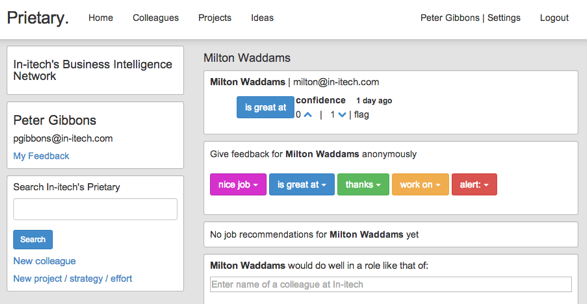
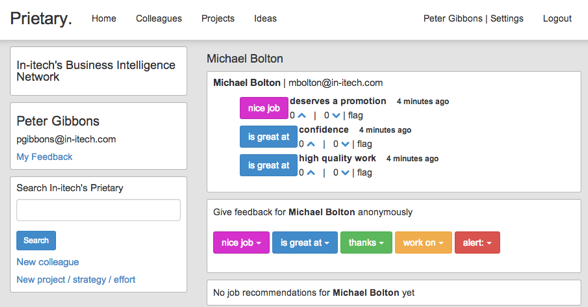
improved front image and in-itech feedbacks

diff --git a/db/seedfeedbacks.rb b/db/seedfeedbacks.rb
@@ -33,12 +33,24 @@ def seedfeedbacks
 		["tcarawell@example.com", Attribute.find_by(attribute_name: "deserves a promotion"), User.find_by(name: "Phil Garber") ],
 		["tcarawell@example.com", Attribute.find_by(attribute_name: "closing the deal"), User.find_by(name: "Beth Hillman") ],
 
-		["milton@in-itech.com", Attribute.find_by(attribute_name: "difficult to work for"), User.find_by(name: "Bill Lumbergh") ],
+		["milton@in-itech.com", Attribute.find_by(attribute_name: "confidence"), User.find_by(name: "Bill Lumbergh") ],
+		["milton@in-itech.com", Attribute.find_by(attribute_name: "poor management"), User.find_by(name: "Bill Lumbergh") ],
+		["milton@in-itech.com", Attribute.find_by(attribute_name: "building rapport"), User.find_by(name: "Bill Lumbergh") ],
 		["milton@in-itech.com", Attribute.find_by(attribute_name: "wrong fit for the company"), User.find_by(name: "Peter Gibbons") ],
+		["milton@in-itech.com", Attribute.find_by(attribute_name: "accuracy"), User.find_by(name: "Peter Gibbons") ],
+		["milton@in-itech.com", Attribute.find_by(attribute_name: "work ethic"), User.find_by(name: "Peter Gibbons") ],
+		["milton@in-itech.com", Attribute.find_by(attribute_name: "staying on task"), User.find_by(name: "Peter Gibbons") ],
+		["milton@in-itech.com", Attribute.find_by(attribute_name: "deserves a promotion"), User.find_by(name: "Peter Gibbons") ],
 		["milton@in-itech.com", Attribute.find_by(attribute_name: "getting things done"), User.find_by(name: "Samir Nagheenanajar") ],
-		["milton@in-itech.com", Attribute.find_by(attribute_name: "getting the sale"), User.find_by(name: "Michael Bolton") ],
-		["milton@in-itech.com", Attribute.find_by(attribute_name: "working independently"), User.find_by(name: "Bill Lumbergh") ],
-		["pgibbons@in-itech.com", Attribute.find_by(attribute_name: "confidence"), User.find_by(name: "Milton Waddams") ]		
+		["milton@in-itech.com", Attribute.find_by(attribute_name: "helping the team"), User.find_by(name: "Samir Nagheenanajar") ],
+		["milton@in-itech.com", Attribute.find_by(attribute_name: "attitude"), User.find_by(name: "Samir Nagheenanajar") ],
+		["milton@in-itech.com", Attribute.find_by(attribute_name: "working independently"), User.find_by(name: "Samir Nagheenanajar") ],
+		["milton@in-itech.com", Attribute.find_by(attribute_name: "confidence"), User.find_by(name: "Michael Bolton") ],
+		["milton@in-itech.com", Attribute.find_by(attribute_name: "high quality work"), User.find_by(name: "Michael Bolton") ],
+		["milton@in-itech.com", Attribute.find_by(attribute_name: "deserves a promotion"), User.find_by(name: "Michael Bolton") ],
+		["pgibbons@in-itech.com", Attribute.find_by(attribute_name: "working independently"), User.find_by(name: "Milton Waddams") ],
+		["pgibbons@in-itech.com", Attribute.find_by(attribute_name: "high quality work"), User.find_by(name: "Milton Waddams") ],
+		["pgibbons@in-itech.com", Attribute.find_by(attribute_name: "meeting the deadline"), User.find_by(name: "Milton Waddams") ]				
 	    ]
 
 	feedback_list.each do | from_email, attrib_obj, to_user_obj | 

diff --git a/db/seedpfeedbacks.rb b/db/seedpfeedbacks.rb
@@ -26,9 +26,18 @@ def seedpfeedbacks
 		["tcarawell@example.com", Pattribute.find_by(name: "needs to be rescoped"), Project.find_by(name: "Refresh website") ],
 		["tcarawell@example.com", Pattribute.find_by(name: "needs to show market need"), Project.find_by(name: "Refresh website") ],
 
-		["milton@in-itech.com", Pattribute.find_by(name: "needs to be rescoped"), Project.find_by(name: "Think: Is this good for the company?") ],
-		["milton@in-itech.com", Pattribute.find_by(name: "needs a different team"), Project.find_by(name: "Office Supply cost reduction") ],
-		["milton@in-itech.com", Pattribute.find_by(name: "needs to show market need"), Project.find_by(name: "New printer") ]
+		["milton@in-itech.com", Pattribute.find_by(name: "is critical for our customers"), Project.find_by(name: "Think: Is this good for the company?") ],
+		["milton@in-itech.com", Pattribute.find_by(name: "needs to be de-priorized"), Project.find_by(name: "Think: Is this good for the company?") ],
+		["milton@in-itech.com", Pattribute.find_by(name: "needs more time"), Project.find_by(name: "Think: Is this good for the company?") ],
+		["milton@in-itech.com", Pattribute.find_by(name: "needs to pivot"), Project.find_by(name: "Office Supply cost reduction") ],
+		["milton@in-itech.com", Pattribute.find_by(name: "is important for the company"), Project.find_by(name: "Office Supply cost reduction") ],
+		["milton@in-itech.com", Pattribute.find_by(name: "is going well"), Project.find_by(name: "Office Supply cost reduction") ],
+		["milton@in-itech.com", Pattribute.find_by(name: "needs to pivot"), Project.find_by(name: "Office Supply cost reduction") ],
+		["milton@in-itech.com", Pattribute.find_by(name: "needs to be cancelled"), Project.find_by(name: "Office Supply cost reduction") ],
+		["milton@in-itech.com", Pattribute.find_by(name: "is critical for the company"), Project.find_by(name: "New printer") ],
+		["milton@in-itech.com", Pattribute.find_by(name: "is doing poorly"), Project.find_by(name: "New printer") ],
+		["milton@in-itech.com", Pattribute.find_by(name: "needs more funding"), Project.find_by(name: "New printer") ],
+		["milton@in-itech.com", Pattribute.find_by(name: "progress is too slow"), Project.find_by(name: "New printer") ]
 	    ]
 
 	pfeedback_list.each do | from_email, pattrib_obj, to_proj_obj | 
